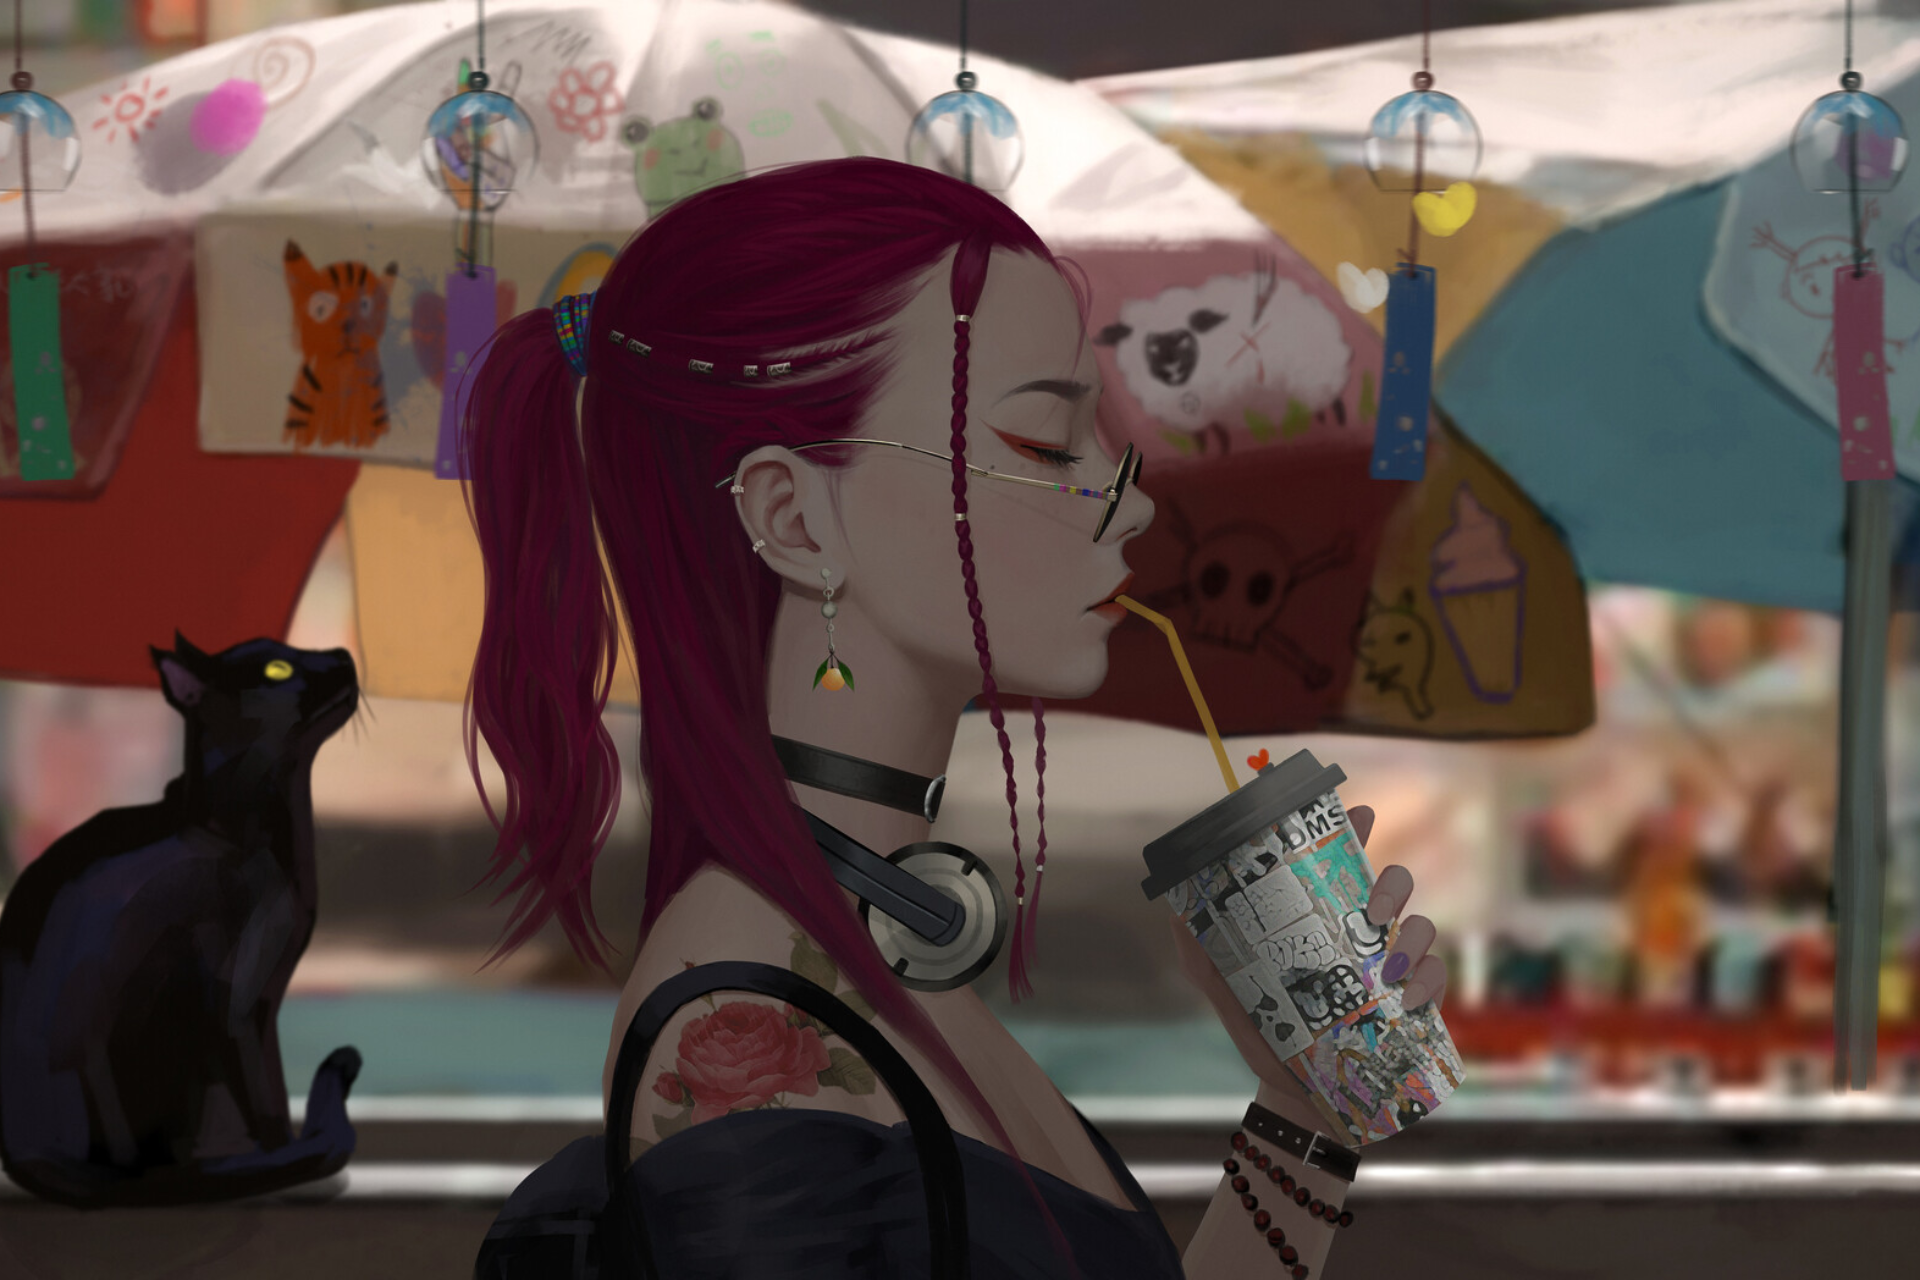
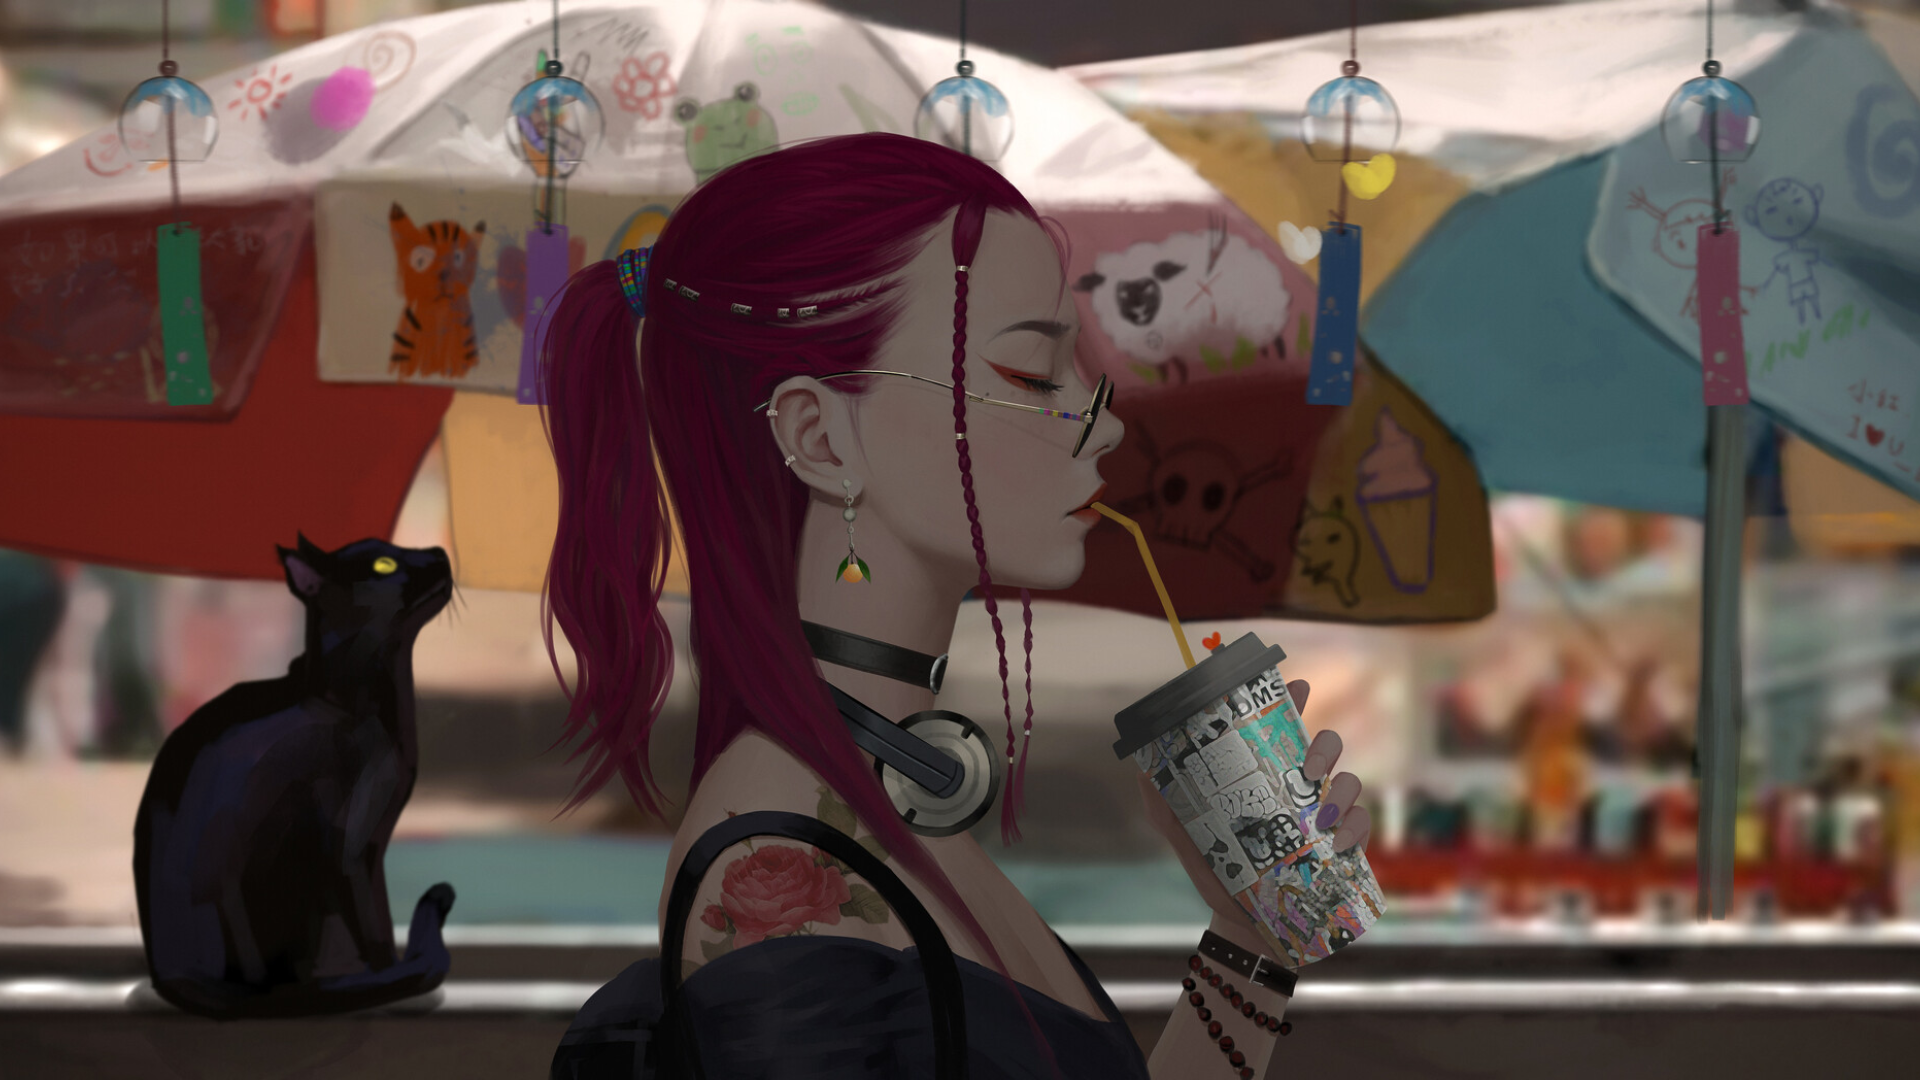
5.13

diff --git a/css/login.css b/css/login.css
@@ -5,7 +5,7 @@
 body {
   background-image: url(../img/bg.jpg);
   background-repeat: no-repeat;
-  background-size: cover;
+  background-size: contain;
   background-attachment: fixed;
 }
 .login {
